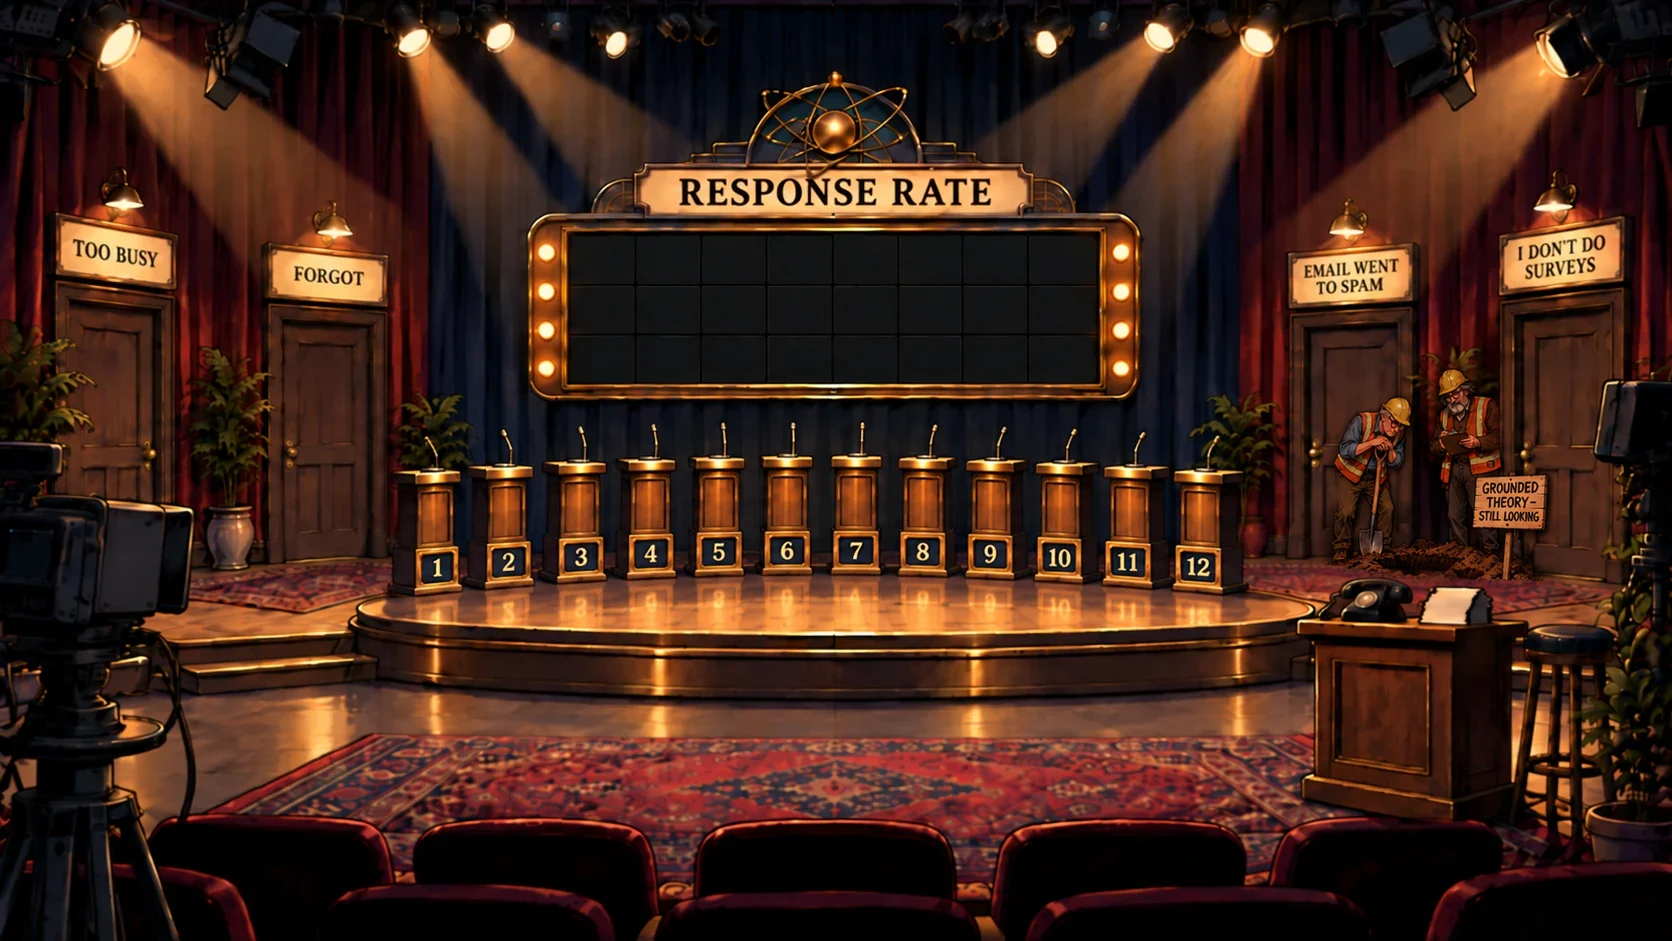
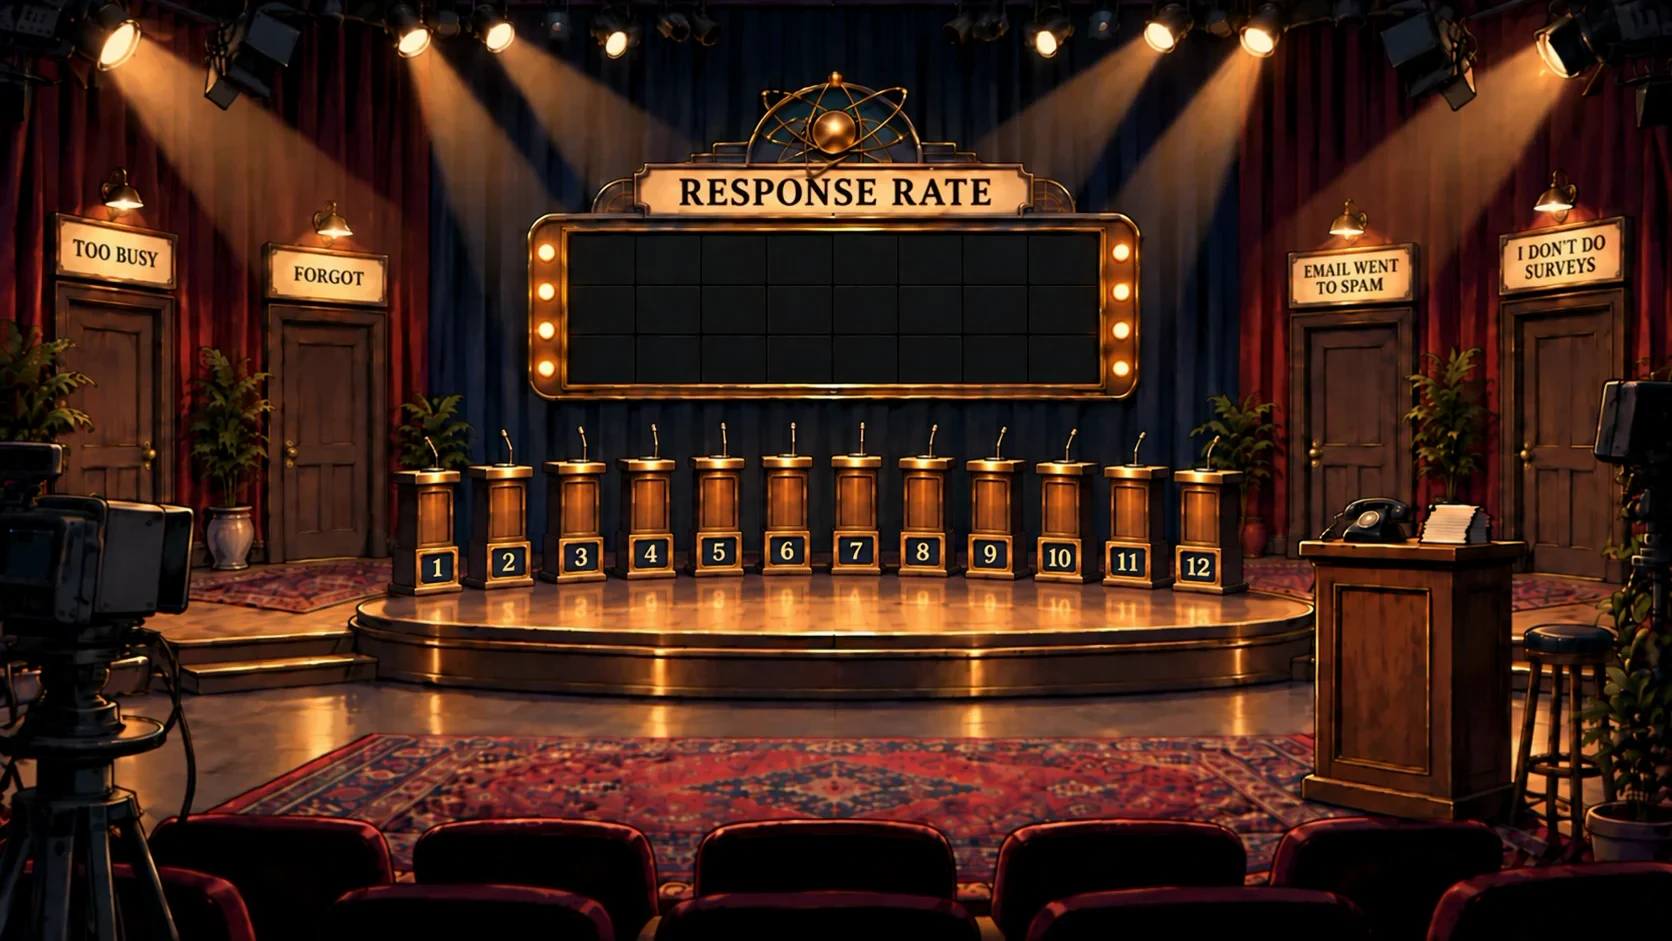
Fieldwork: Glaser & Strauss removed (painting restored from the pre-cameo background); the reminder postcards are clickable on the desk by the phone
Claude-Session: https://claude.ai/code/session_01NVbNvGwATBDeX3jSoy7jXs

Changed region(s): [[0.7775, 0.339, 0.933, 0.7396]]

diff --git a/web/the-secret-of-the-codebook.html b/web/the-secret-of-the-codebook.html
@@ -8477,12 +8477,6 @@ C.sm = { l:83, t:27, w:10, hh:14, who:'Howard Becker', noun:'the jazz trio',
         '&ldquo;Deviance isn&rsquo;t in the act. It&rsquo;s in who gets to hang the label on it.&rdquo; <i>(a long, cool note)</i>',
         '&ldquo;Come to the gig. It&rsquo;s the only room on campus without a seating chart.&rdquo;'] };
 // Act III
-C.fw = { l:79.5, t:39, w:13, hh:22, who:'Glaser &amp; Strauss', noun:'the two men digging',
-  label:'Two men digging a hole',
-  look:'It seems to be Glaser and Strauss&hellip; digging for a theory.',
-  talk:['Glaser, leaning on the shovel: &ldquo;No hypotheses. We just dig, and the theory emerges from the ground.&rdquo; Strauss, at the clipboard: &ldquo;Any minute now.&rdquo;',
-        '&ldquo;Constant comparison.&rdquo; <i>(they compare the hole with another hole)</i> &ldquo;Saturation is when the new dirt looks like the old dirt.&rdquo;',
-        '&ldquo;You people come in with a Prediction Slip.&rdquo; <i>(a disapproving shovelful)</i> &ldquo;We never know what we are looking for. That&rsquo;s the method.&rdquo;'] };
 C.mn = { l:83.5, t:50, w:6, hh:14, who:'Pierre Bourdieu', noun:'the man judging lunches',
   label:'A man inspecting other people&rsquo;s lunches',
   look:'It seems to be Pierre Bourdieu&hellip; judging other people&rsquo;s lunches.',
@@ -12902,9 +12896,9 @@ var HOTSPOTS = [
   { id:'doornot',   label:'A door: I DON&rsquo;T DO SURVEYS', noun:'the I DON&rsquo;T DO SURVEYS door', l:89.7, t:24, w:9.7, h:33 },
   { id:'director',  label:'The Fieldwork Director',      noun:'the Fieldwork Director',     l:66,   t:41,   w:9.2,  h:44 },
   { id:'host',      label:'The host&rsquo;s podium',     noun:'the host&rsquo;s podium',    l:77.8, t:58,   w:12.6, h:27 },
-  // the postcards are a thing you can see now, painted on the desk beside the phone (author, 2026-09-28:
-  // "I cannot find the reminders")
-  { id:'phone',     label:'Reminder postcards, by the telephone', noun:'the reminder postcards', l:78.5, t:50.5, w:10.5, h:8 }
+  // the postcards are a thing you can see now: the card stack on the desk beside the phone (author,
+  // 2026-09-28: "I cannot find the reminders"; Glaser & Strauss, who hid them, are gone)
+  { id:'phone',     label:'Reminder postcards, by the telephone', noun:'the reminder postcards', l:78.5, t:52,   w:12.5, h:6.5 }
 ];
 // Twelve respondents, one per podium, measured off fieldwork-bg.webp: the podiums span
 // bg-x 412-1237 at a 68.75px pitch, and their desk tops are at bg-y 461, so each sprite's foot
